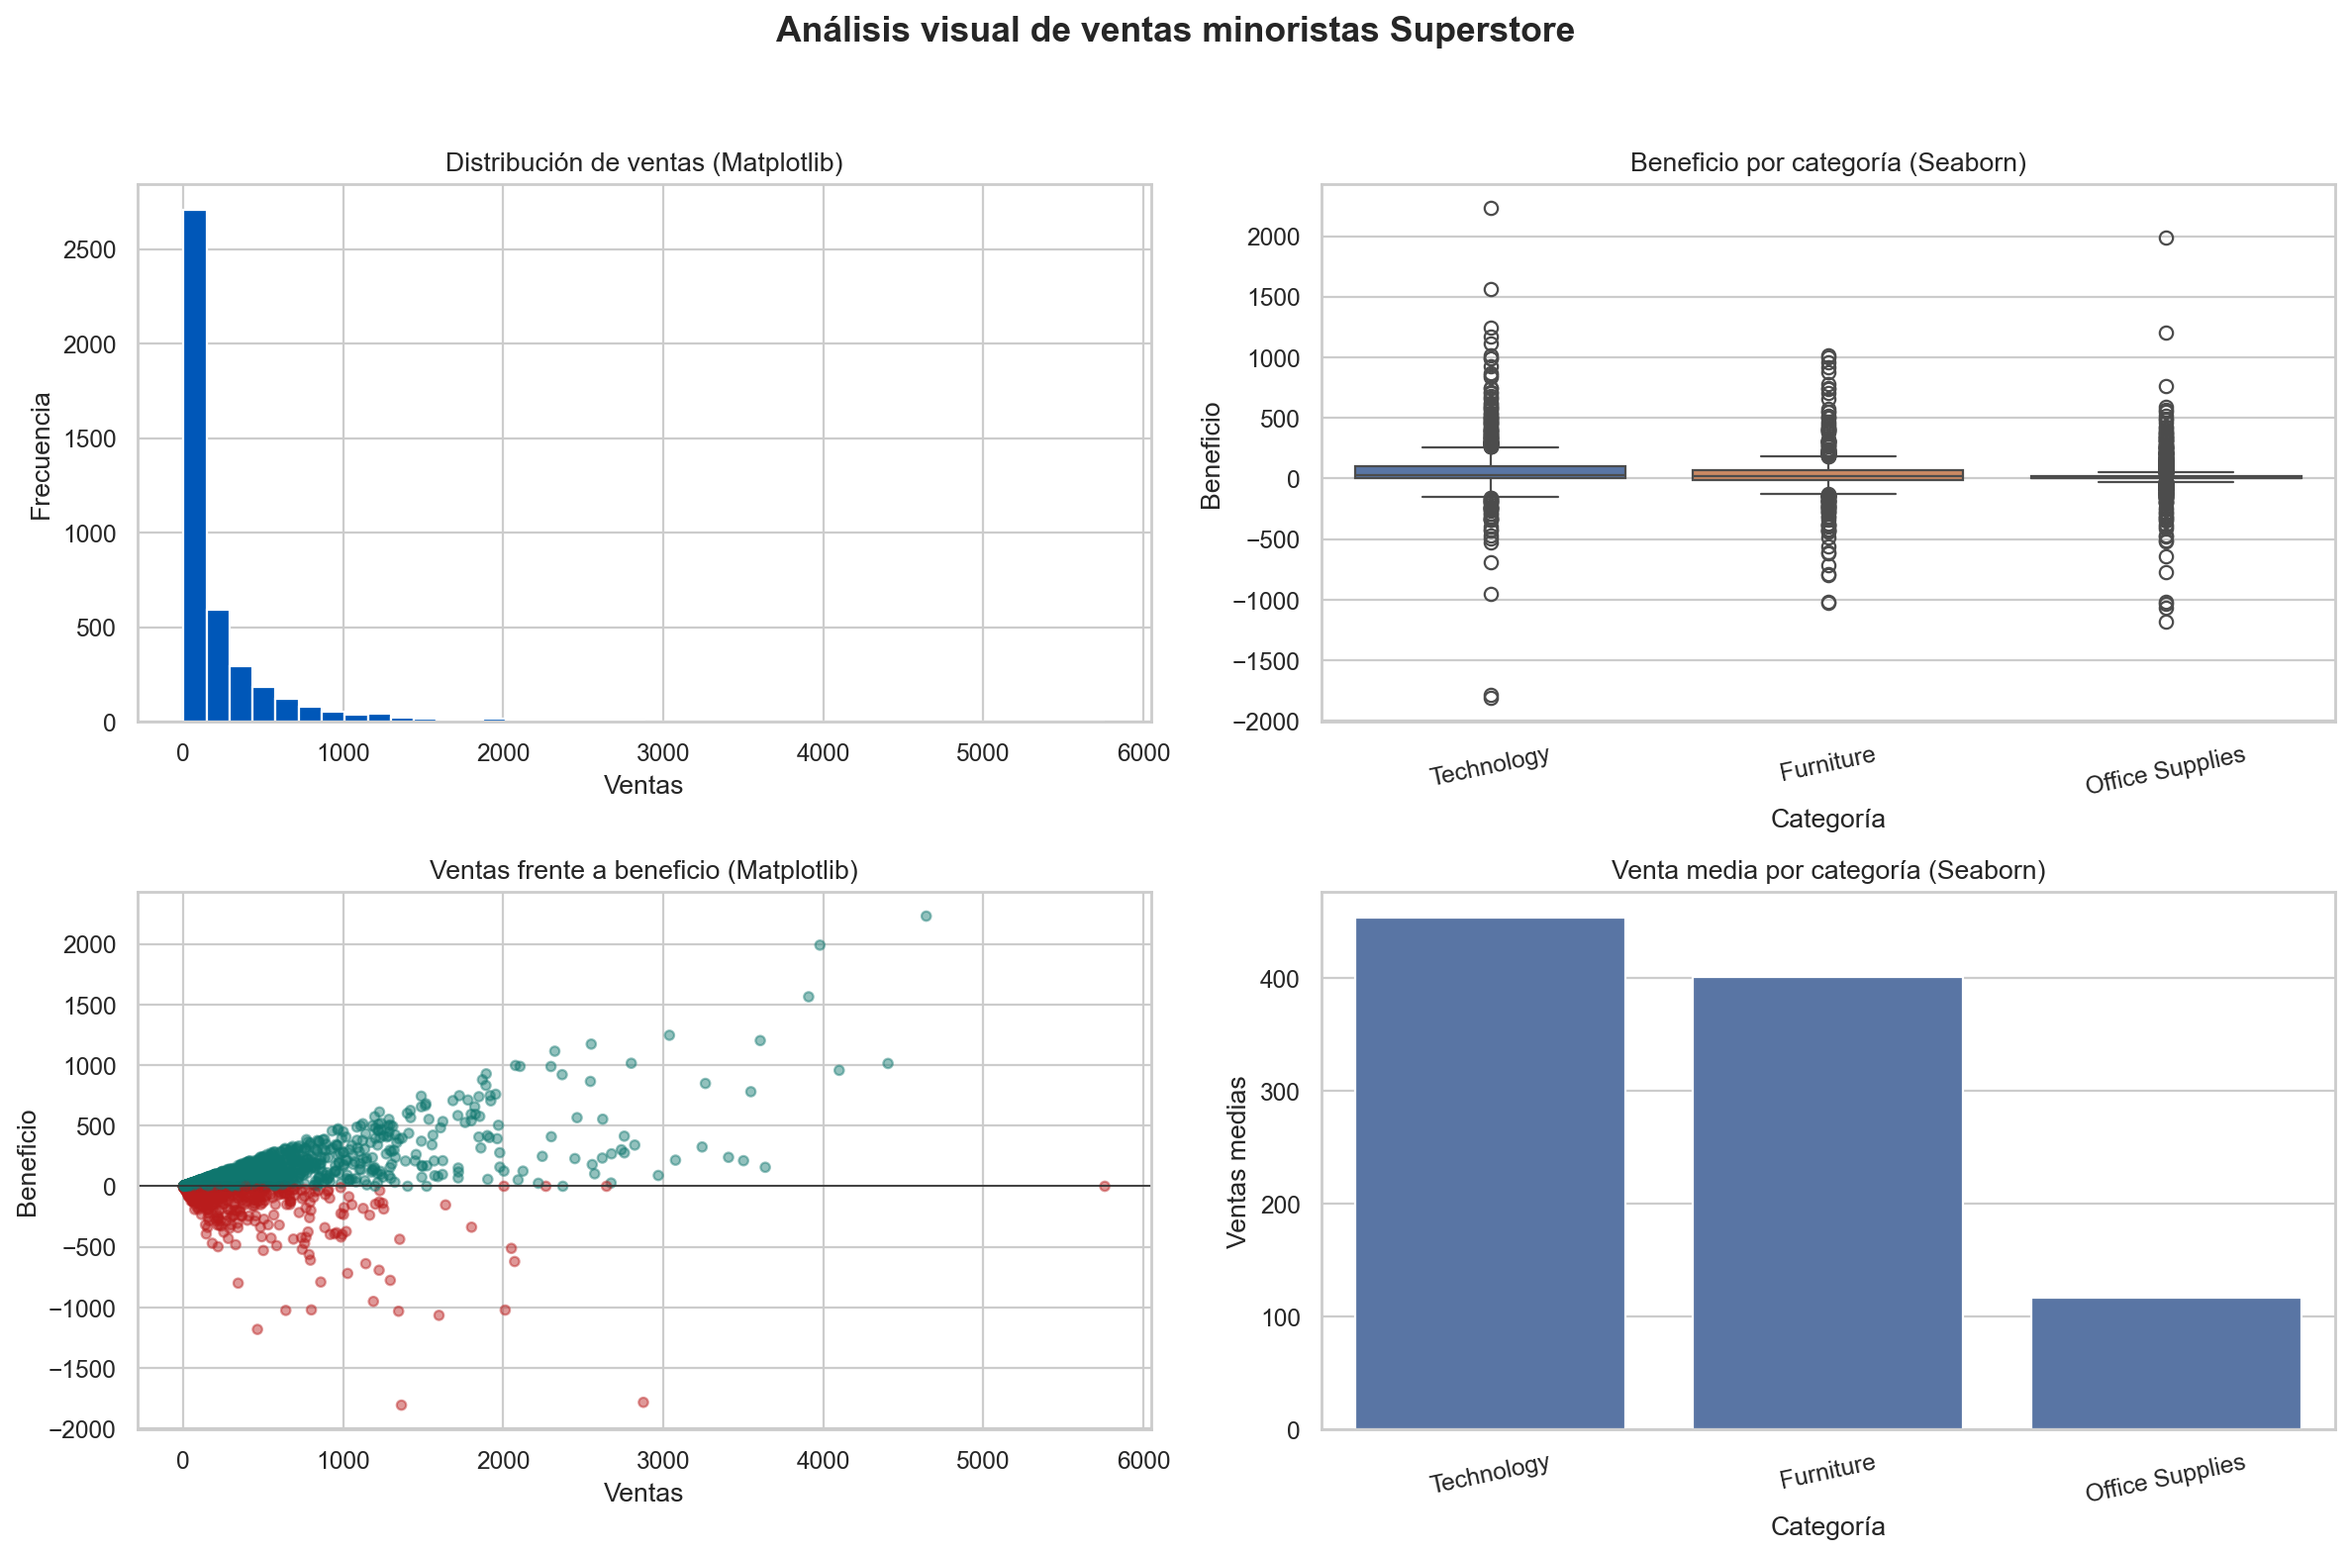
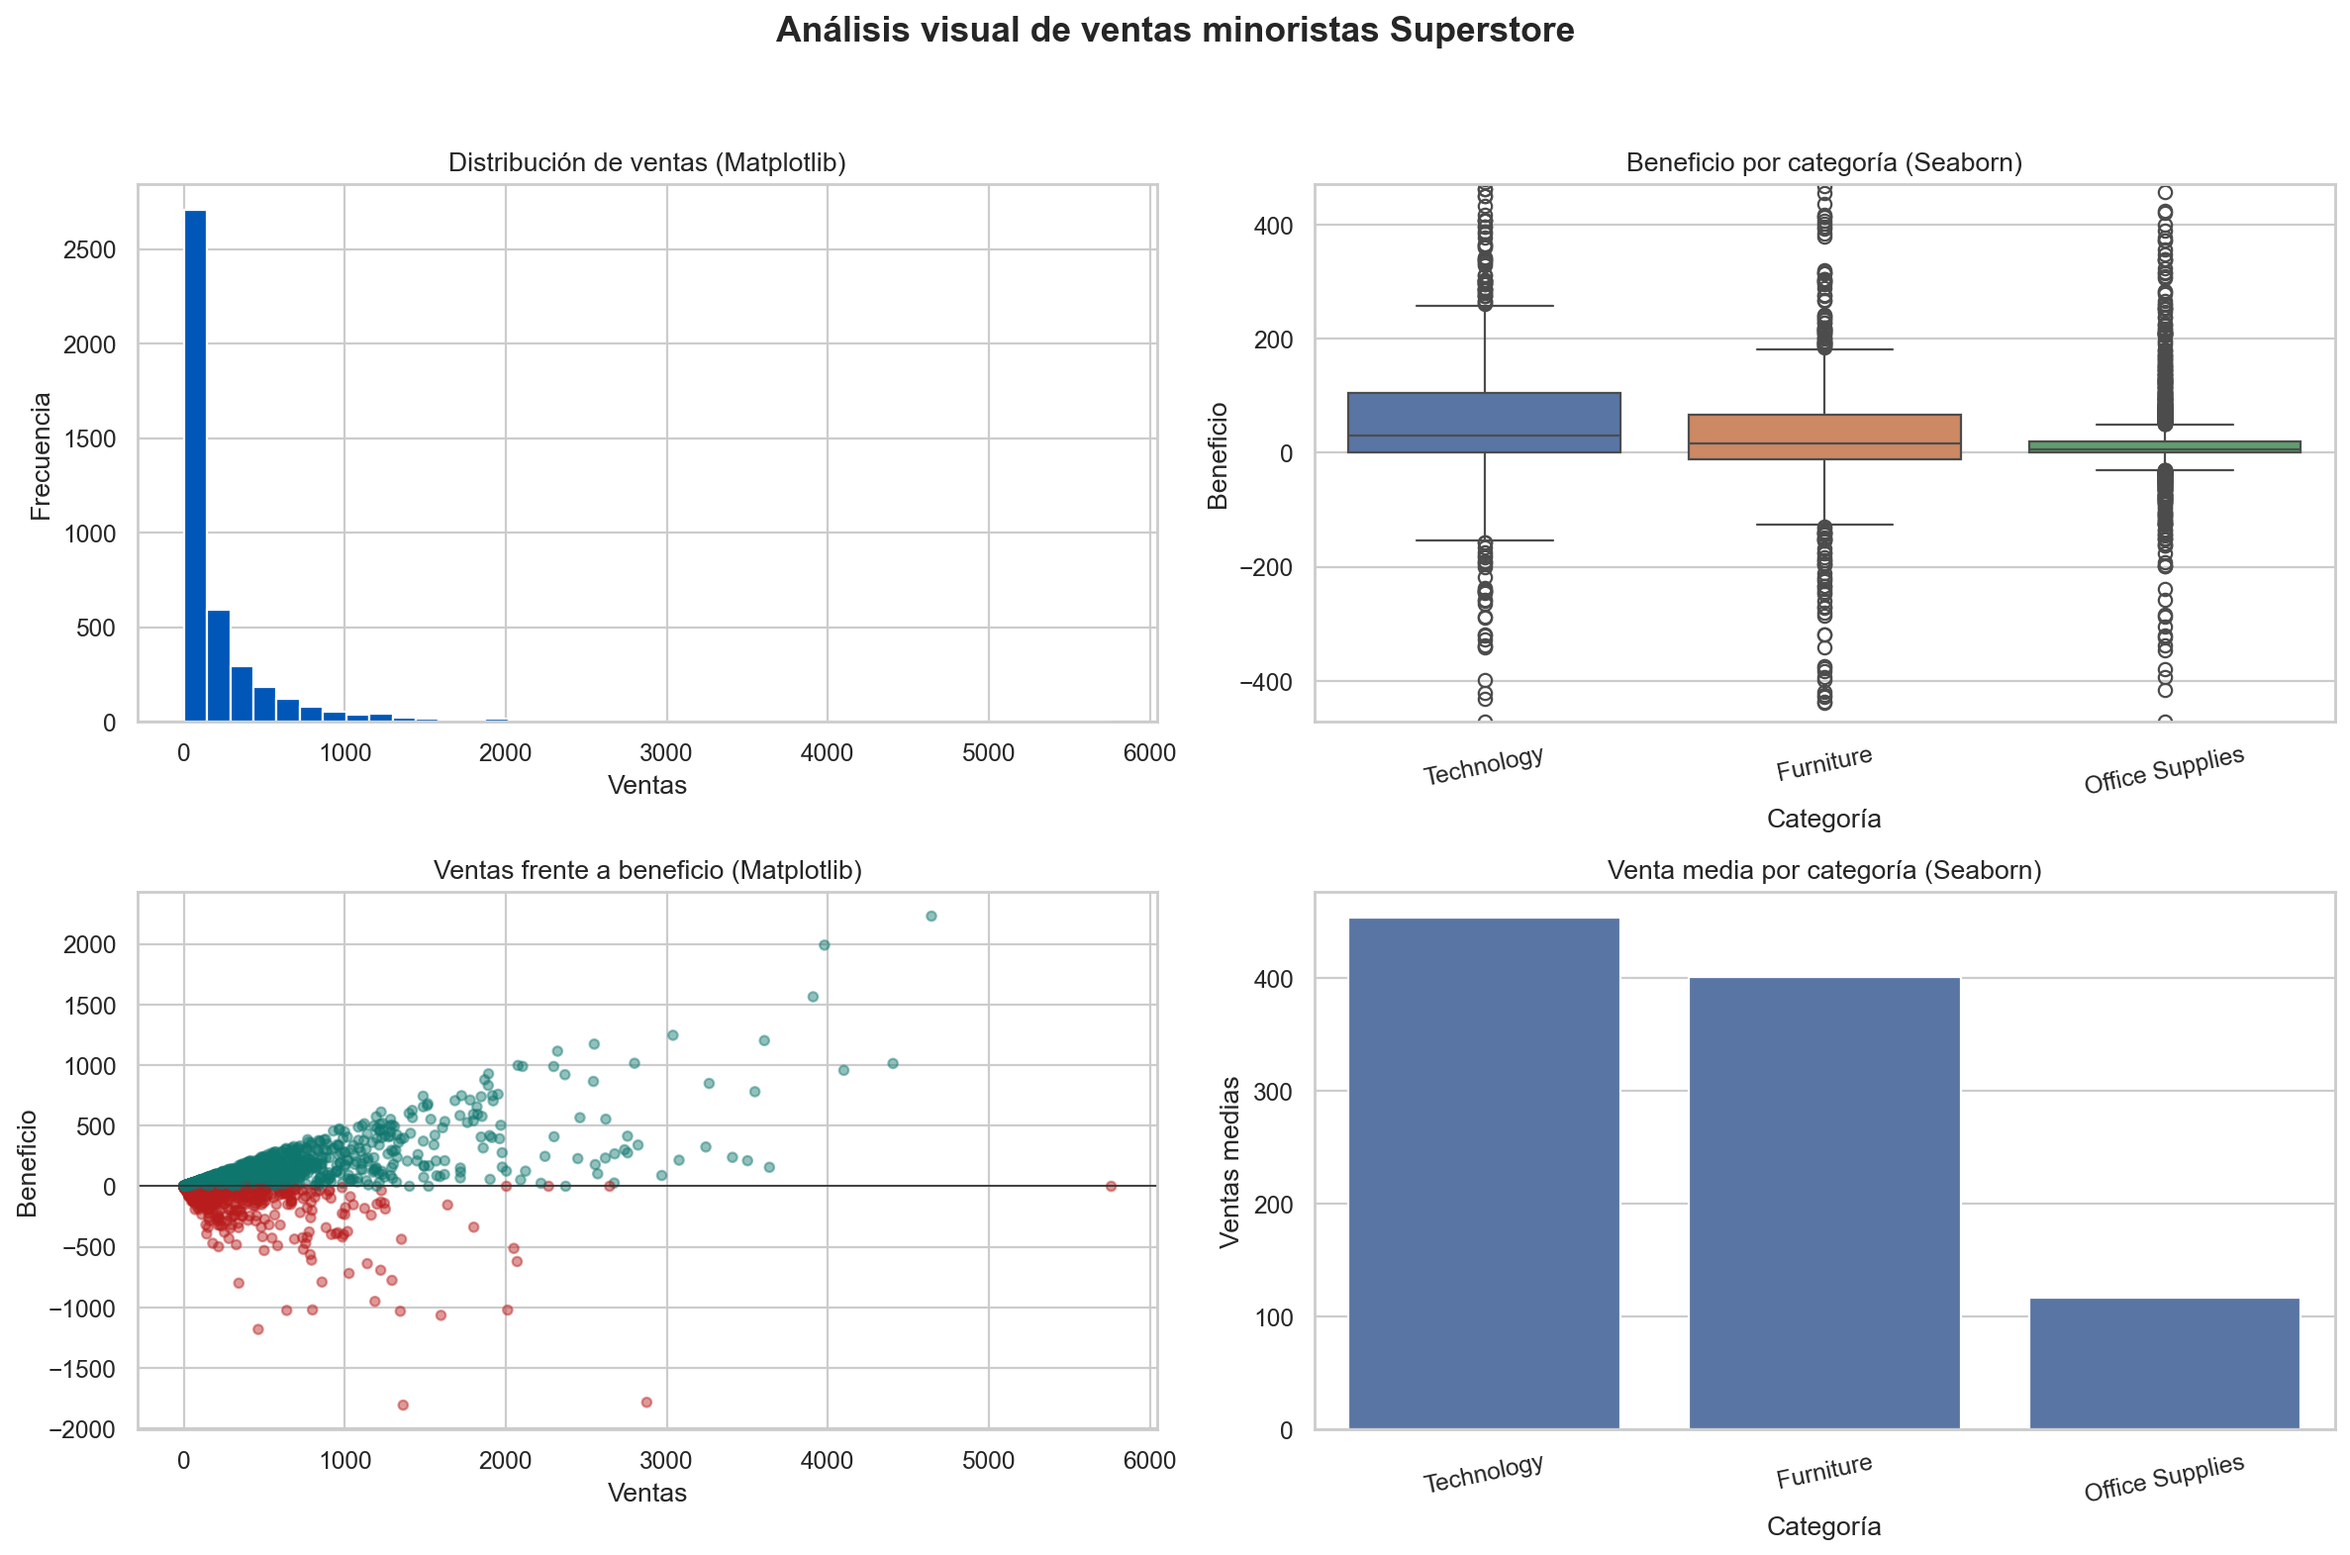
Añade análisis multivariante con Matplotlib

diff --git a/visualizacion_superstore.py b/visualizacion_superstore.py
@@ -14,6 +14,7 @@ import seaborn as sns
 ARCHIVO_DATOS = Path("superstore_dataset2012.csv")
 ARCHIVO_SUBPLOTS = Path("visualizaciones_superstore.png")
 ARCHIVO_HEATMAP = Path("heatmap_correlaciones.png")
+ARCHIVO_SCATTER_3D = Path("scatter_3d_ventas_beneficio_descuento.png")
 
 
 def cargar_y_preparar_datos(ruta):
@@ -27,7 +28,9 @@ def cargar_y_preparar_datos(ruta):
         raise ValueError(f"Faltan columnas necesarias: {sorted(faltantes)}")
 
     datos["Order Date"] = pd.to_datetime(datos["Order Date"], dayfirst=True, errors="coerce")
+    datos["Ship Date"] = pd.to_datetime(datos["Ship Date"], dayfirst=True, errors="coerce")
     datos = datos.dropna(subset=["Order Date", "Category", "Sales", "Profit"])
+    datos["Mes_Pedido"] = datos["Order Date"].dt.to_period("M")
     return datos
 
 
@@ -49,6 +52,8 @@ def crear_visualizaciones(datos):
     ejes[0, 1].set_xlabel("Categoría")
     ejes[0, 1].set_ylabel("Beneficio")
     ejes[0, 1].tick_params(axis="x", rotation=12)
+    limite_beneficio = datos["Profit"].abs().quantile(0.98)
+    ejes[0, 1].set_ylim(-limite_beneficio, limite_beneficio)
 
     # Matplotlib bivariante: muestra la relación entre ventas y beneficio por pedido.
     colores = np.where(datos["Profit"] >= 0, "#0f766e", "#b91c1c")
@@ -82,11 +87,30 @@ def crear_heatmap(datos):
     plt.close(fig)
 
 
+def crear_scatter_3d(datos):
+    """Crea un scatter multivariante de Matplotlib para ventas, beneficio y descuento."""
+    fig = plt.figure(figsize=(9, 7))
+    eje = fig.add_subplot(111, projection="3d")
+    puntos = eje.scatter(
+        datos["Sales"], datos["Profit"], datos["Discount"],
+        c=datos["Discount"], cmap="viridis", alpha=0.55, s=20
+    )
+    eje.set_title("Ventas, beneficio y descuento (Matplotlib 3D)")
+    eje.set_xlabel("Ventas")
+    eje.set_ylabel("Beneficio")
+    eje.set_zlabel("Descuento")
+    fig.colorbar(puntos, ax=eje, shrink=0.65, label="Descuento")
+    fig.tight_layout()
+    fig.savefig(ARCHIVO_SCATTER_3D, dpi=160, bbox_inches="tight")
+    plt.close(fig)
+
+
 def main():
     """Ejecuta la preparación, análisis descriptivo y generación de gráficos."""
     datos = cargar_y_preparar_datos(ARCHIVO_DATOS)
     crear_visualizaciones(datos)
     crear_heatmap(datos)
+    crear_scatter_3d(datos)
 
     print(f"Filas analizadas: {len(datos)}")
     print(f"Nulos restantes en columnas usadas: {datos[['Order Date', 'Category', 'Sales', 'Profit']].isna().sum().sum()}")
@@ -94,6 +118,7 @@ def main():
     print(f"Beneficio medio: {datos['Profit'].mean():.2f}")
     print(f"Figura de subplots guardada: {ARCHIVO_SUBPLOTS}")
     print(f"Heatmap guardado: {ARCHIVO_HEATMAP}")
+    print(f"Scatter 3D guardado: {ARCHIVO_SCATTER_3D}")
 
 
 if __name__ == "__main__":
